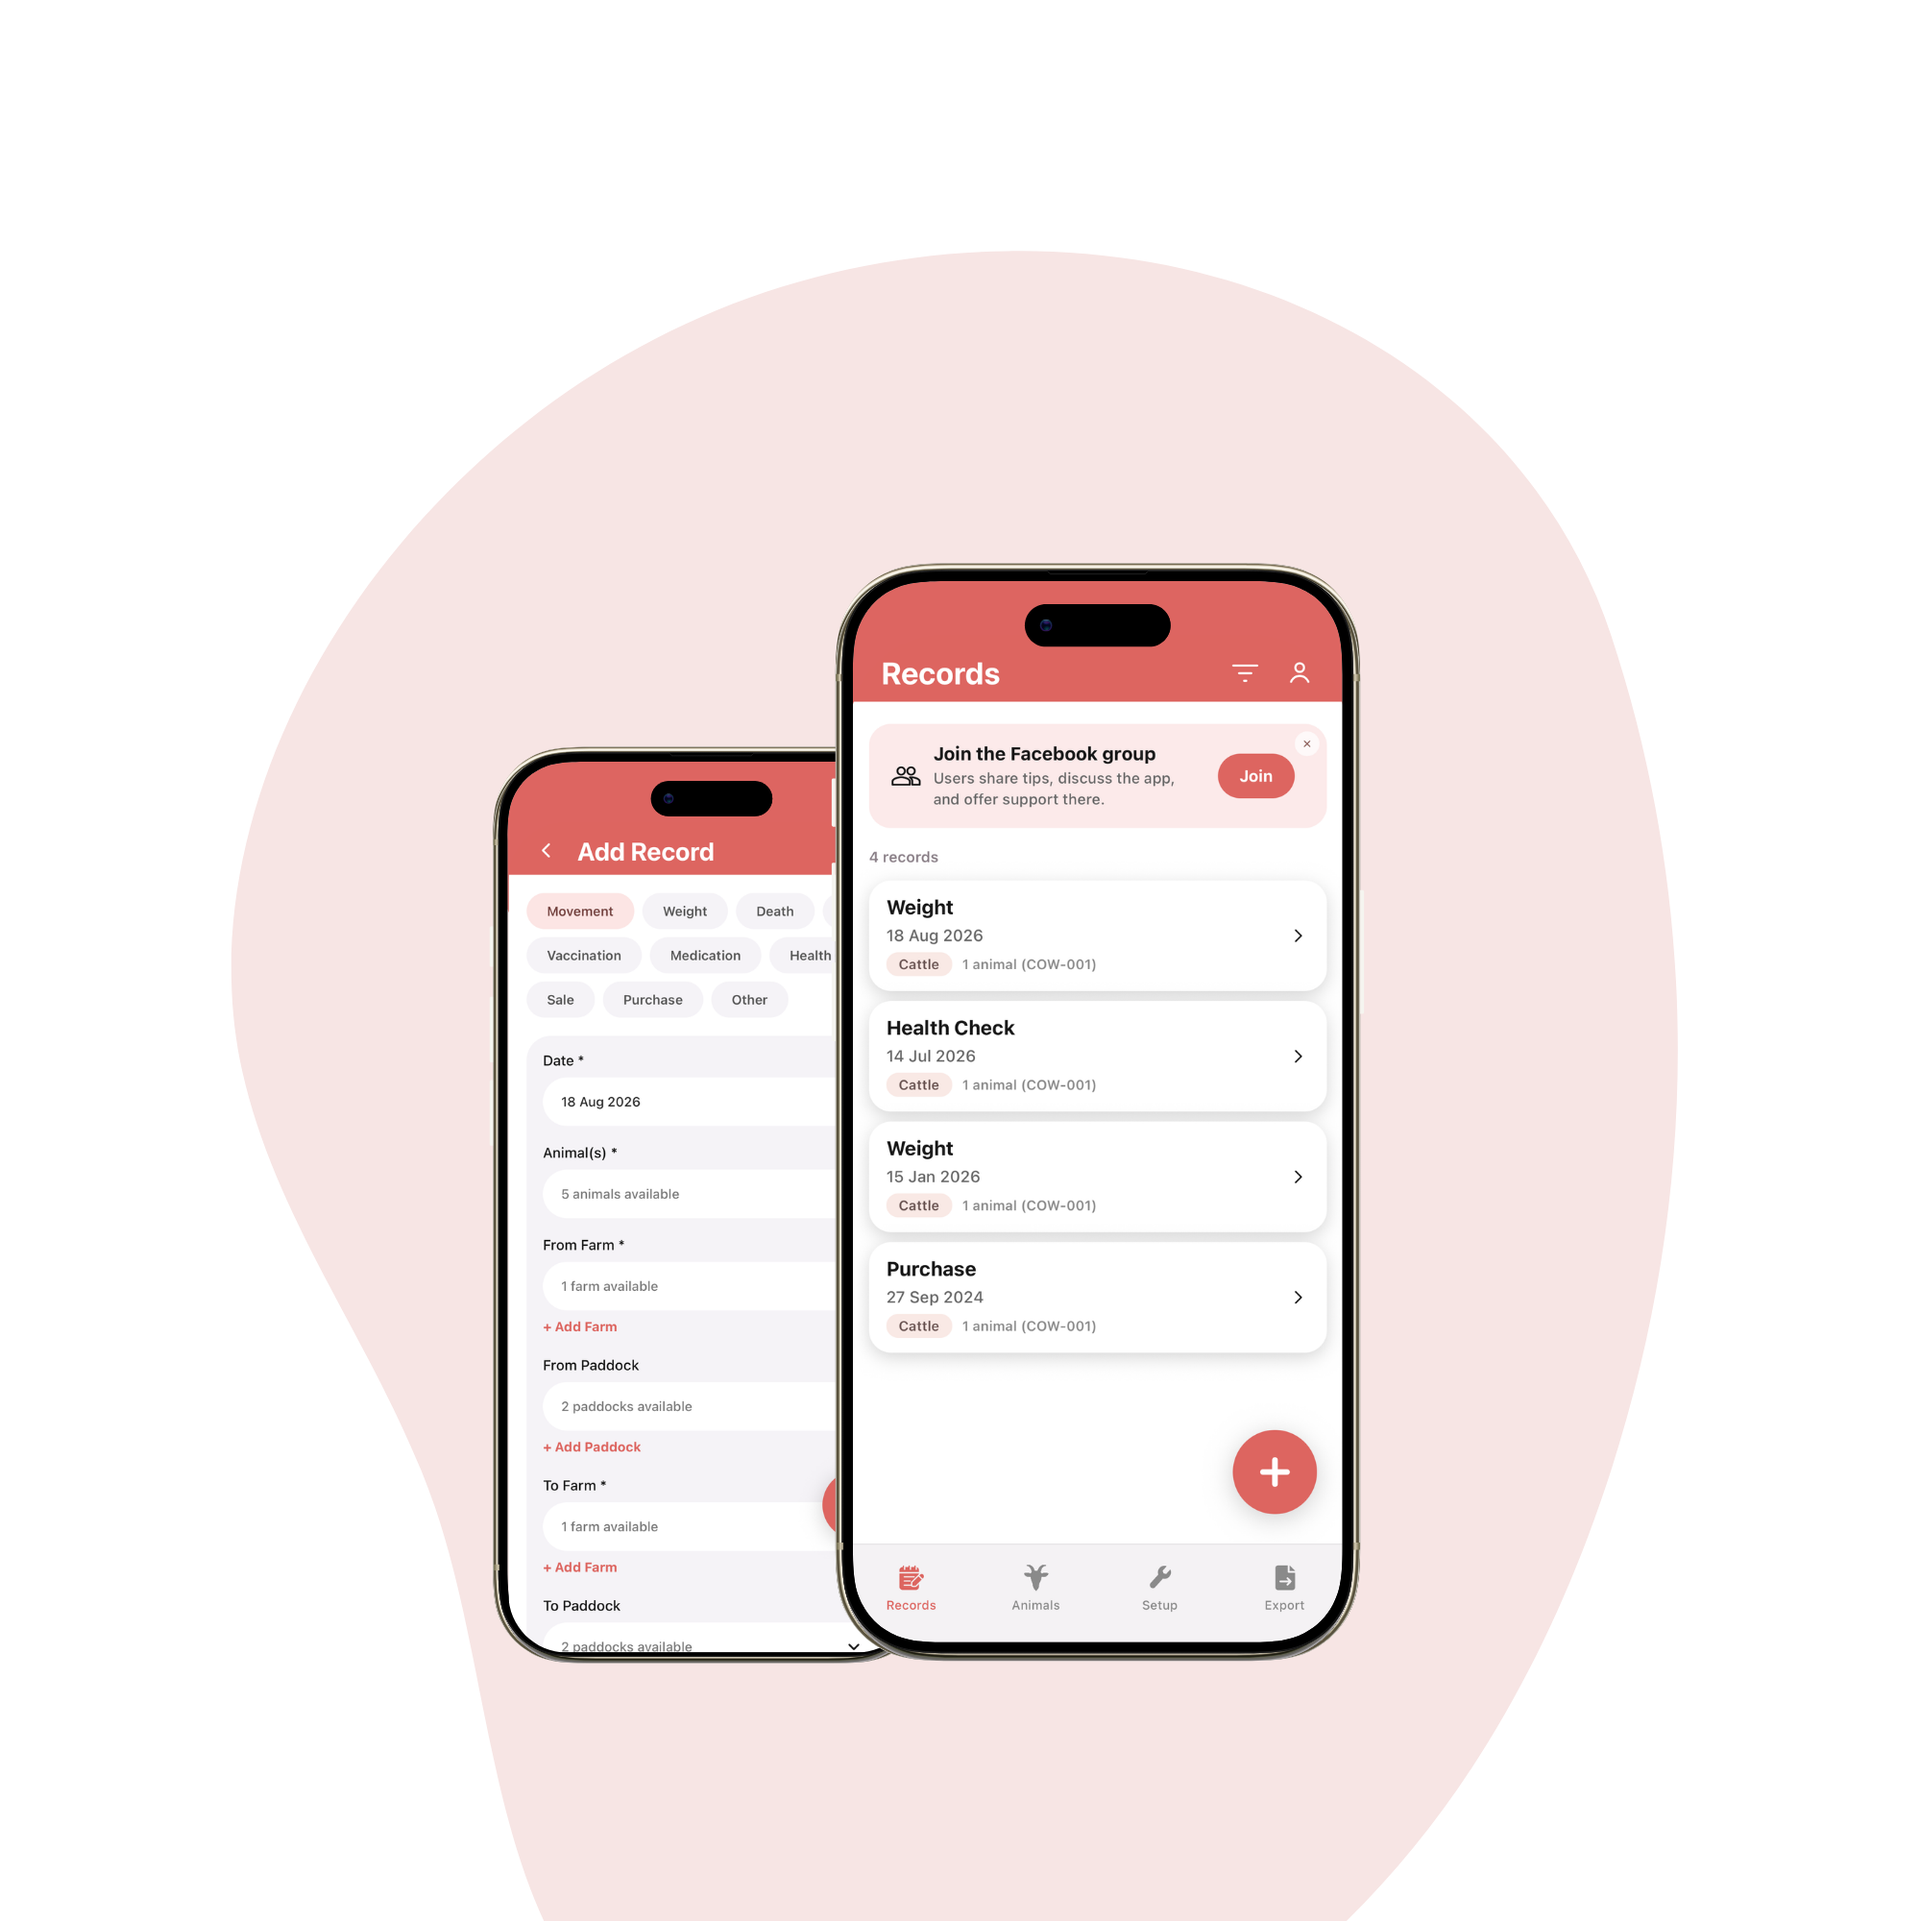
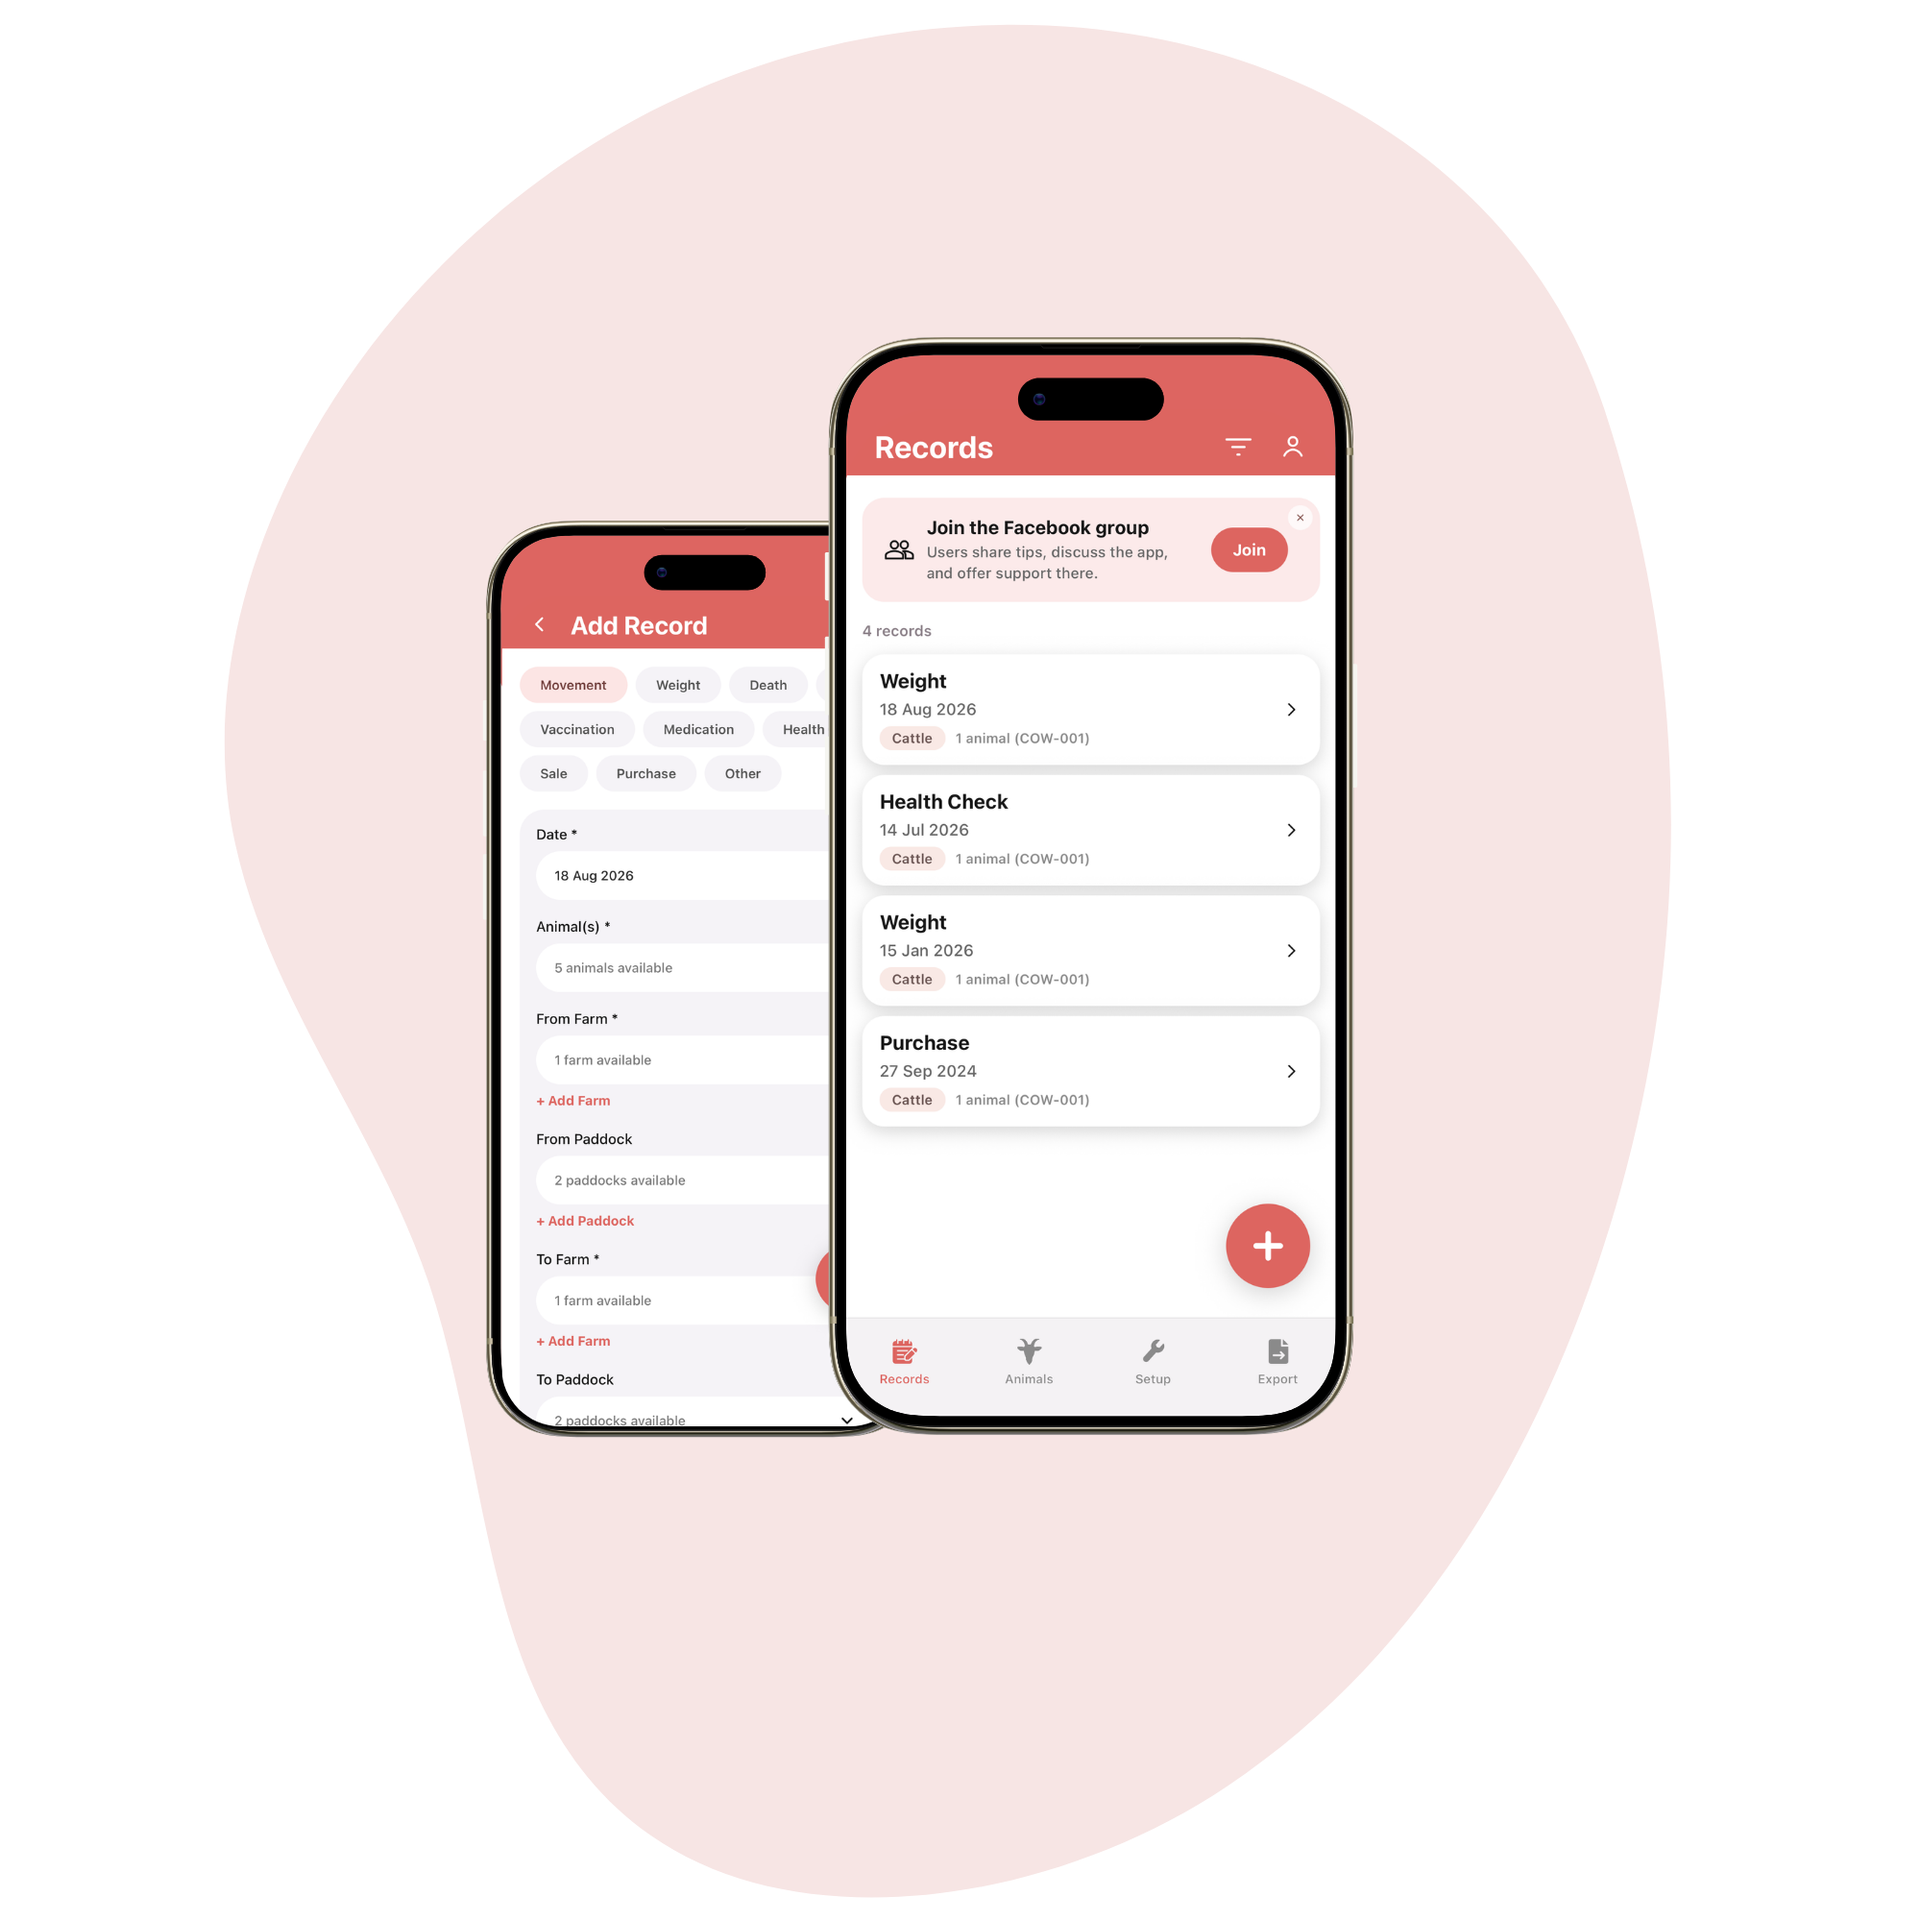
Update records graphic; grow both story graphics to 640px
Swap in the recomposed records artwork (?v=2), whose phones fill more of
the blob, and widen both graphic-story media columns from 560px to
640px on desktop. Phone layouts are untouched.

Changed region(s): [[0.093, 0.0, 0.899, 1.0]]

diff --git a/docs/index.html b/docs/index.html
@@ -13,7 +13,7 @@
   <link rel="icon" type="image/png" sizes="96x96" href="./favicon-96x96.png?v=20260724" />
   <link rel="icon" type="image/png" sizes="192x192" href="./favicon-192x192.png?v=20260724" />
   <link rel="apple-touch-icon" sizes="180x180" href="./apple-touch-icon.png?v=20260724" />
-  <link rel="stylesheet" href="./styles.css?v=20260818d" />
+  <link rel="stylesheet" href="./styles.css?v=20260818e" />
 </head>
 <body>
   <header class="site-header">
@@ -112,7 +112,7 @@
             <p>Browse your animals in one clear register with the important details visible at a glance. It is easier to check status, identify the right animal, and keep your records current as your herd grows.</p>
           </div>
           <figure class="feature-shot feature-story-screen">
-            <img class="feature-screen-image" src="./images/graphic-records.png" alt="Add Record and Records screens in LivestockBook" loading="lazy" />
+            <img class="feature-screen-image" src="./images/graphic-records.png?v=2" alt="Add Record and Records screens in LivestockBook" loading="lazy" />
           </figure>
         </article>
 

diff --git a/docs/styles.css b/docs/styles.css
@@ -396,12 +396,12 @@ h2,
    phone-layout rules in the max-width blocks below. */
 @media (min-width: 901px) {
   .feature-story-graphic {
-    grid-template-columns: minmax(320px, 560px) minmax(300px, 1fr);
+    grid-template-columns: minmax(320px, 640px) minmax(280px, 1fr);
     gap: 40px;
   }
 
   .feature-story.reverse.feature-story-graphic {
-    grid-template-columns: minmax(300px, 1fr) minmax(320px, 560px);
+    grid-template-columns: minmax(280px, 1fr) minmax(320px, 640px);
   }
 
   /* Keep the copy beside its artwork instead of drifting to the frame edge:
